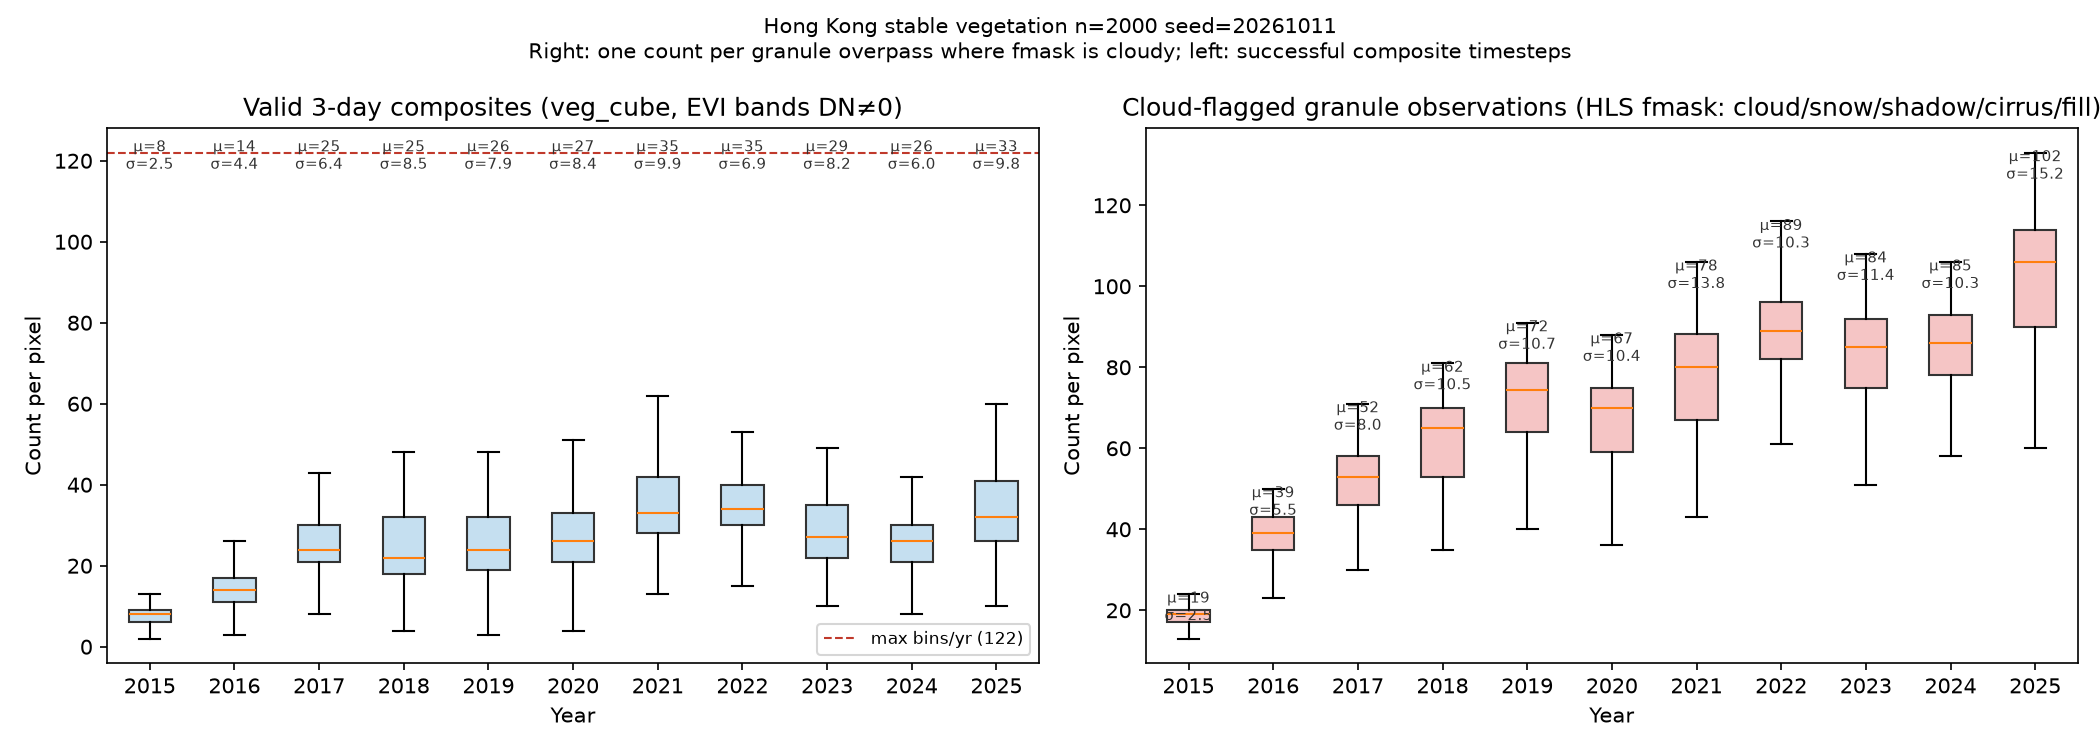
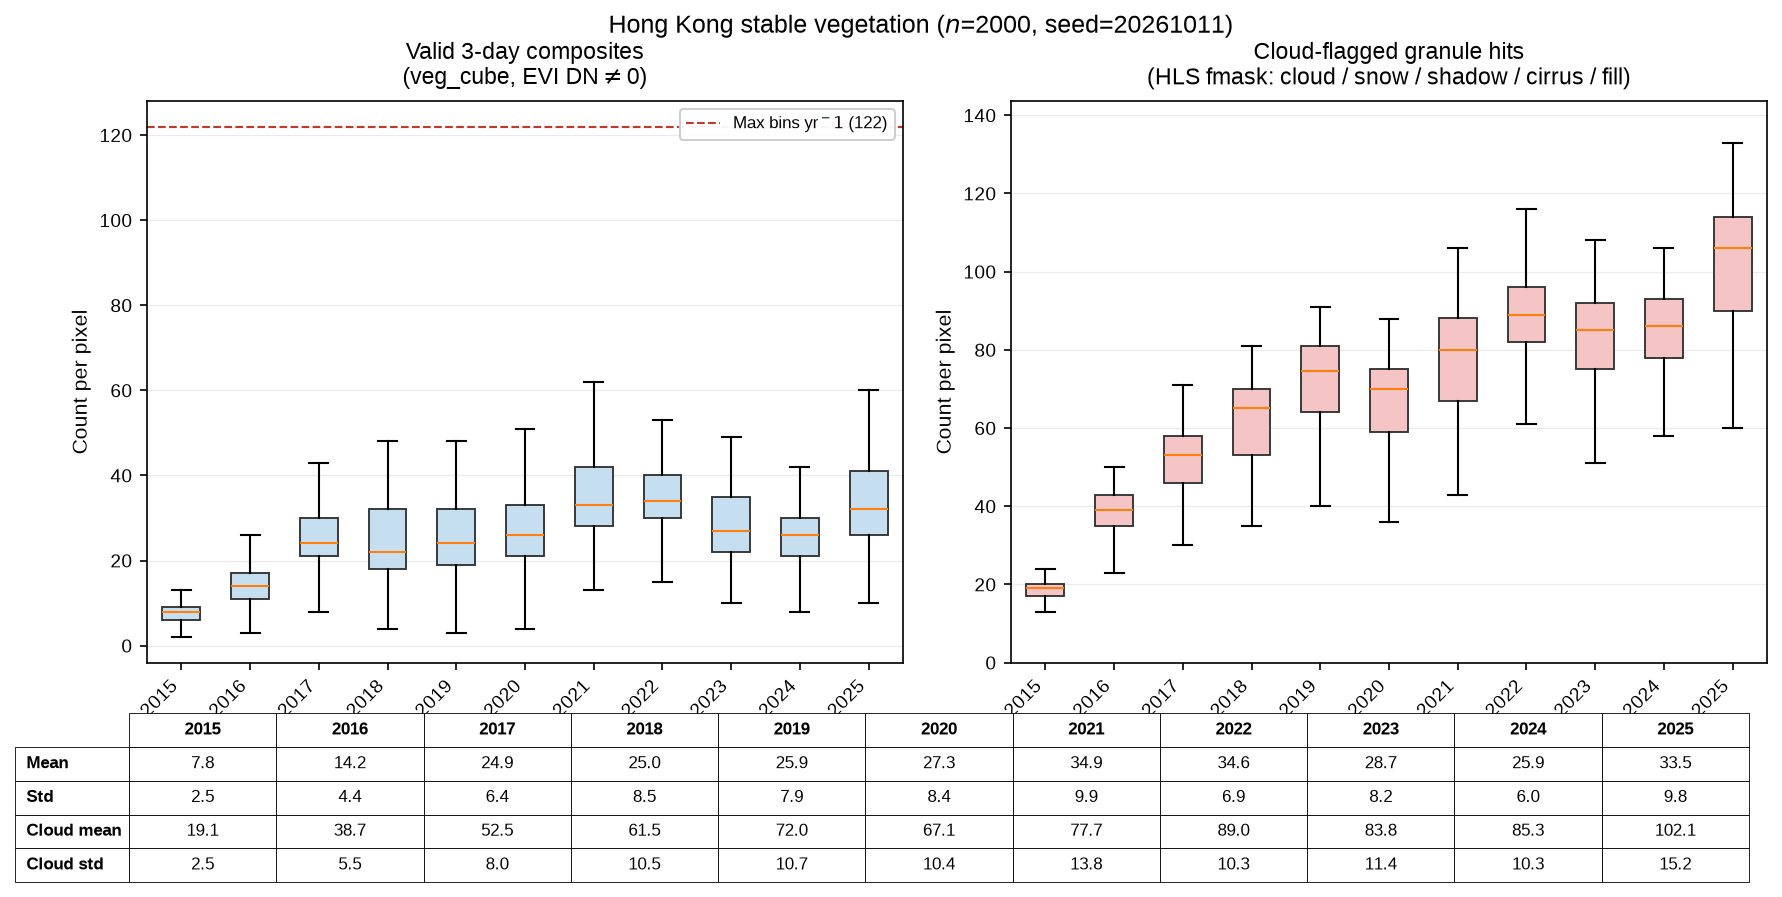
Use Arial and bottom stats tables for observation count boxplots.

diff --git a/plot_valid_cloud_obs_per_year.py b/plot_valid_cloud_obs_per_year.py
@@ -15,13 +15,13 @@ from composite_veg_cube import CLOUDISH, ROOT, STEPS_PER_YEAR, WATER_BIT, granul
 from cube_io import load_veg_pixels
 from hk_paths import PHENO
 from phenology_hplm import N_YEARS, STEPS, YEAR0
+from plot_style import use_arial, year_stats_table
 
 BLUE, RED, NIR = 0, 2, 3
 FMASK_FILL = 255
 
 
 def valid_evi_steps(block: np.ndarray) -> np.ndarray:
-    """(N, T) bool — timestep valid for EVI in veg_cube."""
     return (
         (block[:, :, BLUE] != 0)
         & (block[:, :, RED] != 0)
@@ -30,15 +30,13 @@ def valid_evi_steps(block: np.ndarray) -> np.ndarray:
 
 
 def granule_cloud_clear_counts(yy: np.ndarray, xx: np.ndarray) -> tuple[np.ndarray, np.ndarray]:
-    """Per-pixel per-year counts of granule observations flagged cloudy vs clear (fmask)."""
     n_pix = yy.size
     cloud = np.zeros((n_pix, N_YEARS), np.int32)
     clear = np.zeros((n_pix, N_YEARS), np.int32)
     jobs = granule_jobs()
     for i, (gid, _sensor, bin_index) in enumerate(jobs):
         year_idx = bin_index // STEPS_PER_YEAR
-        path = ROOT / "granules" / f"{gid}.npz"
-        with np.load(path) as z:
+        with np.load(ROOT / "granules" / f"{gid}.npz") as z:
             fv = z["fmask"][yy, xx]
         is_cloud = (fv == FMASK_FILL) | ((fv.astype(np.uint8) & CLOUDISH) != 0)
         is_clear = (fv != FMASK_FILL) & ((fv.astype(np.uint8) & CLOUDISH) == 0) & (
@@ -51,90 +49,123 @@ def granule_cloud_clear_counts(yy: np.ndarray, xx: np.ndarray) -> tuple[np.ndarr
     return cloud, clear
 
 
+def draw_boxpanel(
+    ax,
+    counts: np.ndarray,
+    years: np.ndarray,
+    title: str,
+    facecolor: str,
+    ymax_line: int | None = None,
+) -> None:
+    bp = ax.boxplot(
+        [counts[:, i] for i in range(N_YEARS)],
+        tick_labels=[str(y) for y in years],
+        showfliers=False,
+        patch_artist=True,
+        widths=0.55,
+    )
+    for patch in bp["boxes"]:
+        patch.set_facecolor(facecolor)
+        patch.set_edgecolor("#333333")
+        patch.set_linewidth(0.9)
+    if ymax_line is not None:
+        ax.axhline(
+            ymax_line,
+            color="#c0392b",
+            ls="--",
+            lw=1,
+            label=f"Max bins yr$^{-1}$ ({ymax_line})",
+        )
+        ax.legend(loc="upper right", fontsize=8, framealpha=0.95)
+    ax.set_title(title, pad=8)
+    ax.set_xlabel("Year")
+    ax.set_ylabel("Count per pixel")
+    ax.grid(axis="y", alpha=0.25, linewidth=0.6)
+    plt.setp(ax.get_xticklabels(), rotation=45, ha="right")
+
+
 def main() -> None:
     p = argparse.ArgumentParser()
     p.add_argument("-n", type=int, default=2000)
     p.add_argument("--seed", type=int, default=20261011)
     p.add_argument("--src", type=Path, default=PHENO / "veg_cube.nc")
+    p.add_argument("--refresh-cache", action="store_true")
     p.add_argument(
         "--out",
         type=Path,
         default=Path(__file__).resolve().parent / "figures/valid_cloud_obs_per_year_n2000.png",
     )
     args = p.parse_args()
+    use_arial()
 
+    cache = args.out.parent / f".cache_fmask_counts_n{args.n}_s{args.seed}.npz"
     yy, xx, data = load_veg_pixels(args.n, args.seed, src=args.src)
     ok = valid_evi_steps(data)
     valid = np.zeros((ok.shape[0], N_YEARS), np.int16)
     for y in range(N_YEARS):
         valid[:, y] = ok[:, y * STEPS : (y + 1) * STEPS].sum(axis=1)
 
-    print("scanning granule fmask …", flush=True)
-    cloud, clear = granule_cloud_clear_counts(yy, xx)
+    if cache.exists() and not args.refresh_cache:
+        z = np.load(cache)
+        cloud, clear = z["cloud"], z["clear"]
+        print(f"loaded cache {cache}", flush=True)
+    else:
+        print("scanning granule fmask …", flush=True)
+        cloud, clear = granule_cloud_clear_counts(yy, xx)
+        np.savez_compressed(cache, cloud=cloud, clear=clear, yy=yy, xx=xx)
+        print(f"saved cache {cache}", flush=True)
 
     years = np.arange(YEAR0, YEAR0 + N_YEARS)
-    fig, axes = plt.subplots(1, 2, figsize=(14, 5), sharey=False)
+    v_mean, v_std = valid.mean(axis=0), valid.std(axis=0, ddof=1)
+    c_mean, c_std = cloud.mean(axis=0), cloud.std(axis=0, ddof=1)
 
-    for ax, counts, title, color, ymax_hint in [
-        (
-            axes[0],
-            valid,
-            "Valid 3-day composites (veg_cube, EVI bands DN≠0)",
-            "#c5dff0",
-            STEPS,
-        ),
-        (
-            axes[1],
-            cloud,
-            "Cloud-flagged granule observations (HLS fmask: cloud/snow/shadow/cirrus/fill)",
-            "#f5c5c5",
-            None,
-        ),
-    ]:
-        bp = ax.boxplot(
-            [counts[:, i] for i in range(N_YEARS)],
-            tick_labels=[str(y) for y in years],
-            showfliers=False,
-            patch_artist=True,
-        )
-        for patch in bp["boxes"]:
-            patch.set_facecolor(color)
-            patch.set_edgecolor("#333")
-        if ymax_hint:
-            ax.axhline(ymax_hint, color="#c0392b", ls="--", lw=1, label=f"max bins/yr ({ymax_hint})")
-            ax.legend(loc="lower right", fontsize=8)
-        ax.set_xlabel("Year")
-        ax.set_ylabel("Count per pixel")
-        ax.set_title(title)
-        means = counts.mean(axis=0)
-        stds = counts.std(axis=0, ddof=1)
-        for i, yr in enumerate(years):
-            ax.text(
-                i + 1,
-                ax.get_ylim()[1] * 0.98 if ymax_hint else counts[:, i].max() + 1,
-                f"μ={means[i]:.0f}\nσ={stds[i]:.1f}",
-                ha="center",
-                va="top",
-                fontsize=7,
-                color="#333",
-            )
-
-    fig.suptitle(
-        f"Hong Kong stable vegetation n={valid.shape[0]} seed={args.seed}\n"
-        f"Right: one count per granule overpass where fmask is cloudy; left: successful composite timesteps",
-        fontsize=10,
+    fig = plt.figure(figsize=(12, 7.2))
+    ax0 = fig.add_axes([0.07, 0.36, 0.42, 0.52])
+    ax1 = fig.add_axes([0.55, 0.36, 0.42, 0.52])
+    draw_boxpanel(
+        ax0,
+        valid,
+        years,
+        "Valid 3-day composites\n(veg_cube, EVI DN$\\neq$0)",
+        "#c5dff0",
+        STEPS,
     )
-    fig.tight_layout()
+    draw_boxpanel(
+        ax1,
+        cloud,
+        years,
+        "Cloud-flagged granule hits\n(HLS fmask: cloud / snow / shadow / cirrus / fill)",
+        "#f5c5c5",
+        None,
+    )
+    ymax = max(cloud.max(), valid.max()) * 1.08
+    ax1.set_ylim(0, ymax)
+    fig.suptitle(
+        f"Hong Kong stable vegetation ($n$={valid.shape[0]}, seed={args.seed})",
+        fontsize=12,
+        y=0.96,
+    )
+
+    year_stats_table(
+        fig,
+        years,
+        v_mean,
+        v_std,
+        rect=(0.06, 0.17, 0.9, 0.13),
+        extra_rows=[("Cloud mean", c_mean), ("Cloud std", c_std)],
+    )
+
     args.out.parent.mkdir(parents=True, exist_ok=True)
-    fig.savefig(args.out, dpi=150)
+    fig.savefig(args.out, dpi=150, bbox_inches="tight", facecolor="white")
+    plt.close(fig)
     print(f"wrote {args.out}")
 
-    print("\nvalid composite — year mean std | cloud granule — year mean std")
+    print("\nvalid — year mean std | cloud granule — year mean std")
     for i, yr in enumerate(years):
         print(
             f"{yr}  {valid[:, i].mean():6.2f} {valid[:, i].std(ddof=1):5.2f}  |  "
             f"{cloud[:, i].mean():6.2f} {cloud[:, i].std(ddof=1):5.2f}  "
-            f"(clear granule μ={clear[:, i].mean():.1f})"
+            f"(clear granule mean={clear[:, i].mean():.1f})"
         )
 
 

diff --git a/plot_valid_obs_per_year.py b/plot_valid_obs_per_year.py
@@ -14,6 +14,7 @@ import numpy as np
 from cube_io import load_veg_pixels
 from hk_paths import PHENO
 from phenology_hplm import N_YEARS, STEPS, YEAR0
+from plot_style import use_arial, year_stats_table
 
 BLUE, RED, NIR = 0, 2, 3
 MAX_PER_YEAR = STEPS  # 122
@@ -51,6 +52,7 @@ def main() -> None:
         default=Path(__file__).resolve().parent / "figures/valid_obs_per_year_n2000.png",
     )
     args = p.parse_args()
+    use_arial()
 
     yy, xx, data = load_veg_pixels(args.n, args.seed, src=args.src)
     n_time = data.shape[1]
@@ -75,37 +77,45 @@ def main() -> None:
             f"{np.median(c):6.1f}  {np.percentile(c, 25):5.1f}  {np.percentile(c, 75):5.1f}"
         )
 
-    fig, ax = plt.subplots(figsize=(10, 5))
+    fig = plt.figure(figsize=(11, 5.8))
+    ax = fig.add_axes([0.08, 0.28, 0.9, 0.62])
     bp = ax.boxplot(
         [counts[:, i] for i in range(N_YEARS)],
         tick_labels=[str(y) for y in years],
         showfliers=False,
         patch_artist=True,
+        widths=0.55,
     )
     for patch in bp["boxes"]:
         patch.set_facecolor("#c5dff0")
         patch.set_edgecolor("#1f4e79")
-    ax.axhline(MAX_PER_YEAR, color="#c0392b", ls="--", lw=1, label=f"theoretical max ({MAX_PER_YEAR})")
+        patch.set_linewidth(0.9)
+    for med in bp["medians"]:
+        med.set_color("#1f4e79")
+        med.set_linewidth(1.2)
+    ax.axhline(
+        MAX_PER_YEAR,
+        color="#c0392b",
+        ls="--",
+        lw=1,
+        label=f"Theoretical max ({MAX_PER_YEAR} bins yr$^{-1}$)",
+    )
     ax.set_xlabel("Year")
     ax.set_ylabel("Valid 3-day composites per pixel")
     ax.set_title(
-        f"Hong Kong stable vegetation (n={counts.shape[0]}, seed={args.seed})\n"
-        f"valid if {args.rule} bands DN≠0 · 3-day steps · max {MAX_PER_YEAR}/yr"
+        f"Hong Kong stable vegetation ($n$={counts.shape[0]}, seed={args.seed})\n"
+        f"EVI bands DN$\\neq$0 · 3-day steps"
     )
-    ax.legend(loc="lower right")
-    ax.set_ylim(0, MAX_PER_YEAR + 5)
-    for i, yr in enumerate(years):
-        ax.text(
-            i + 1,
-            MAX_PER_YEAR + 2,
-            f"μ={means[i]:.1f}\nσ={stds[i]:.1f}",
-            ha="center",
-            va="bottom",
-            fontsize=7,
-        )
-    fig.tight_layout()
+    ax.set_ylim(0, MAX_PER_YEAR + 8)
+    ax.legend(loc="upper right", framealpha=0.95)
+    ax.grid(axis="y", alpha=0.25, linewidth=0.6)
+    plt.setp(ax.get_xticklabels(), rotation=45, ha="right")
+
+    year_stats_table(fig, years, means, stds)
+
     args.out.parent.mkdir(parents=True, exist_ok=True)
-    fig.savefig(args.out, dpi=150)
+    fig.savefig(args.out, dpi=150, bbox_inches="tight", facecolor="white")
+    plt.close(fig)
     print(f"wrote {args.out}")
 
 

diff --git a/plot_style.py b/plot_style.py
@@ -1,0 +1,59 @@
+"""Shared matplotlib styling for HK phenology figures."""
+from __future__ import annotations
+
+import matplotlib.pyplot as plt
+import numpy as np
+from numpy.typing import NDArray
+
+
+def use_arial() -> None:
+    plt.rcParams.update(
+        {
+            "font.family": "sans-serif",
+            "font.sans-serif": ["Arial", "Helvetica", "Liberation Sans", "DejaVu Sans"],
+            "axes.unicode_minus": False,
+            "font.size": 10,
+            "axes.titlesize": 11,
+            "axes.labelsize": 10,
+            "xtick.labelsize": 9,
+            "ytick.labelsize": 9,
+            "legend.fontsize": 9,
+        }
+    )
+
+
+def year_stats_table(
+    fig,
+    years: NDArray[np.integer],
+    means: NDArray[np.floating],
+    stds: NDArray[np.floating],
+    *,
+    rect: tuple[float, float, float, float] = (0.08, 0.02, 0.9, 0.14),
+    extra_rows: list[tuple[str, NDArray[np.floating]]] | None = None,
+) -> None:
+    """Mean/std table under the plot (no overlap with boxplots)."""
+    ax_t = fig.add_axes(rect)
+    ax_t.axis("off")
+    rows: list[list[str]] = [
+        [f"{m:.1f}" for m in means],
+        [f"{s:.1f}" for s in stds],
+    ]
+    row_labels = ["Mean", "Std"]
+    if extra_rows:
+        for label, vals in extra_rows:
+            rows.append([f"{v:.1f}" for v in vals])
+            row_labels.append(label)
+    table = ax_t.table(
+        cellText=rows,
+        rowLabels=row_labels,
+        colLabels=[str(int(y)) for y in years],
+        loc="center",
+        cellLoc="center",
+    )
+    table.auto_set_font_size(False)
+    table.set_fontsize(8)
+    for (row, col), cell in table.get_celld().items():
+        if row == 0 or col == -1:
+            cell.set_text_props(weight="bold")
+        cell.set_linewidth(0.4)
+    table.scale(1.0, 1.35)

diff --git a/hk_paths.py b/hk_paths.py
@@ -5,5 +5,6 @@ import os
 from pathlib import Path
 
 HK_ROOT = Path(os.environ.get("HK_HLS_ROOT", "/intelnvme03/ziyun218/hls_49QHE_hk"))
+DATA = HK_ROOT  # alias used by composite_veg_cube and granule tools
 PHENO = Path(os.environ.get("HK_PHENO_ROOT", HK_ROOT / "phenology"))
 IMPUTATOR = Path(os.environ.get("HK_IMPUTATOR_ROOT", HK_ROOT / "imputator_hk"))
